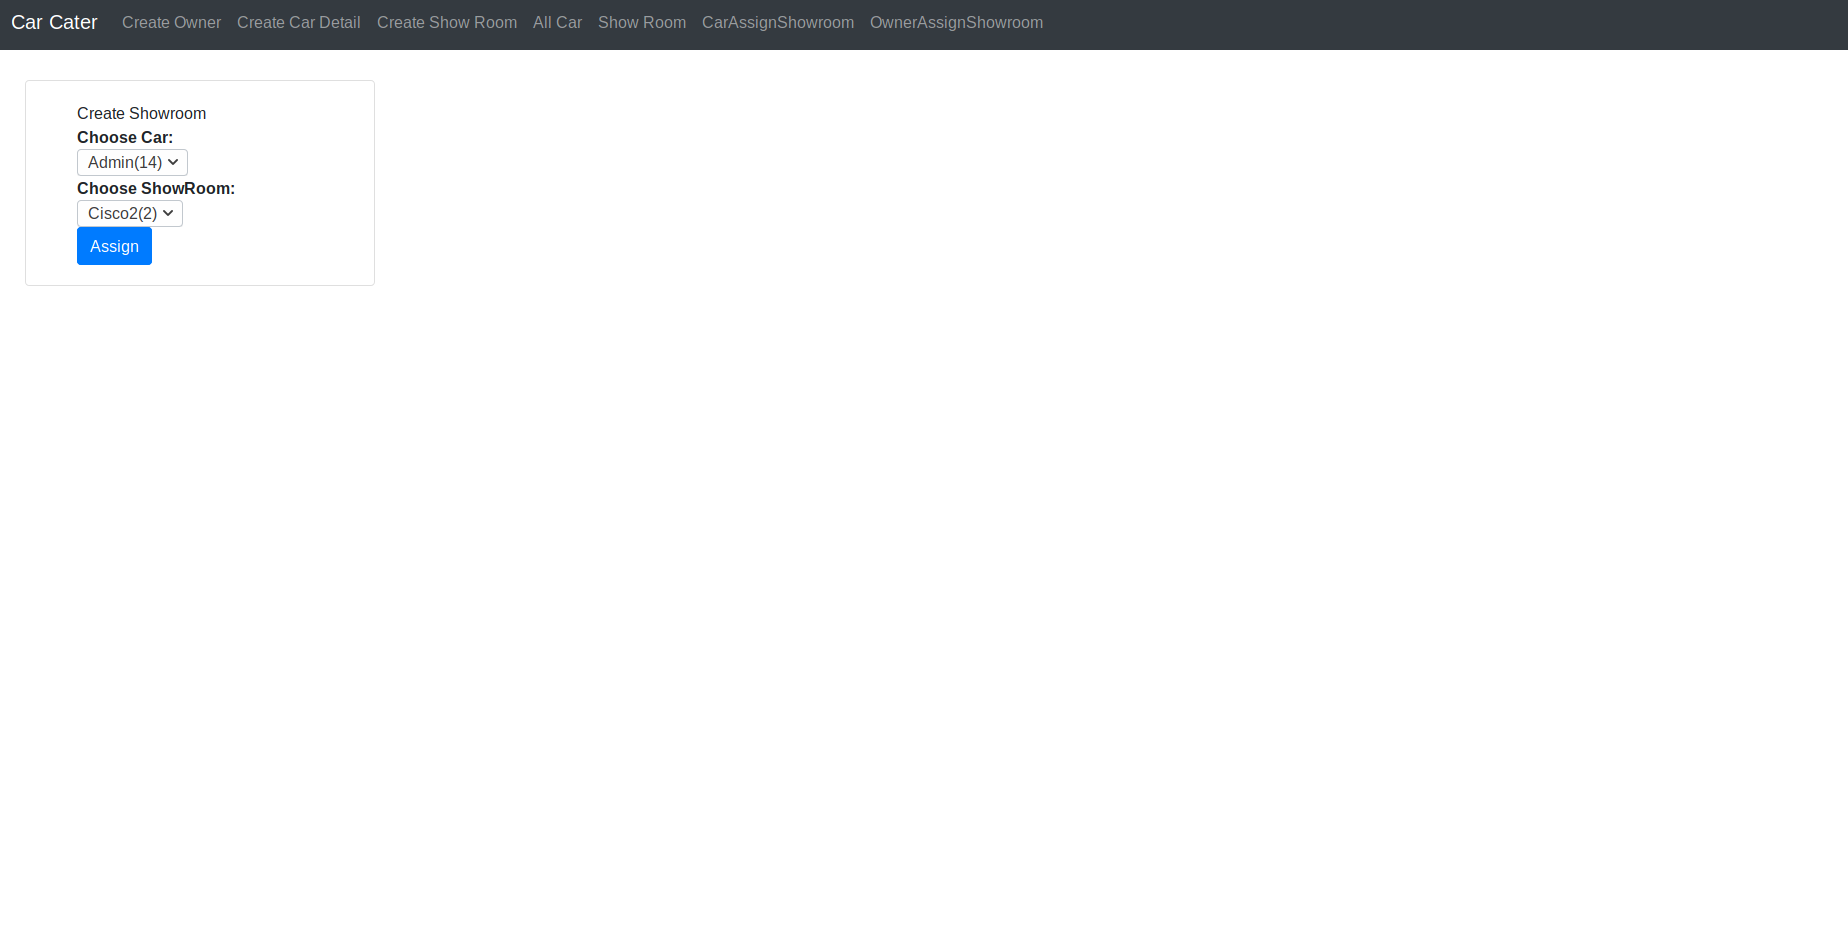
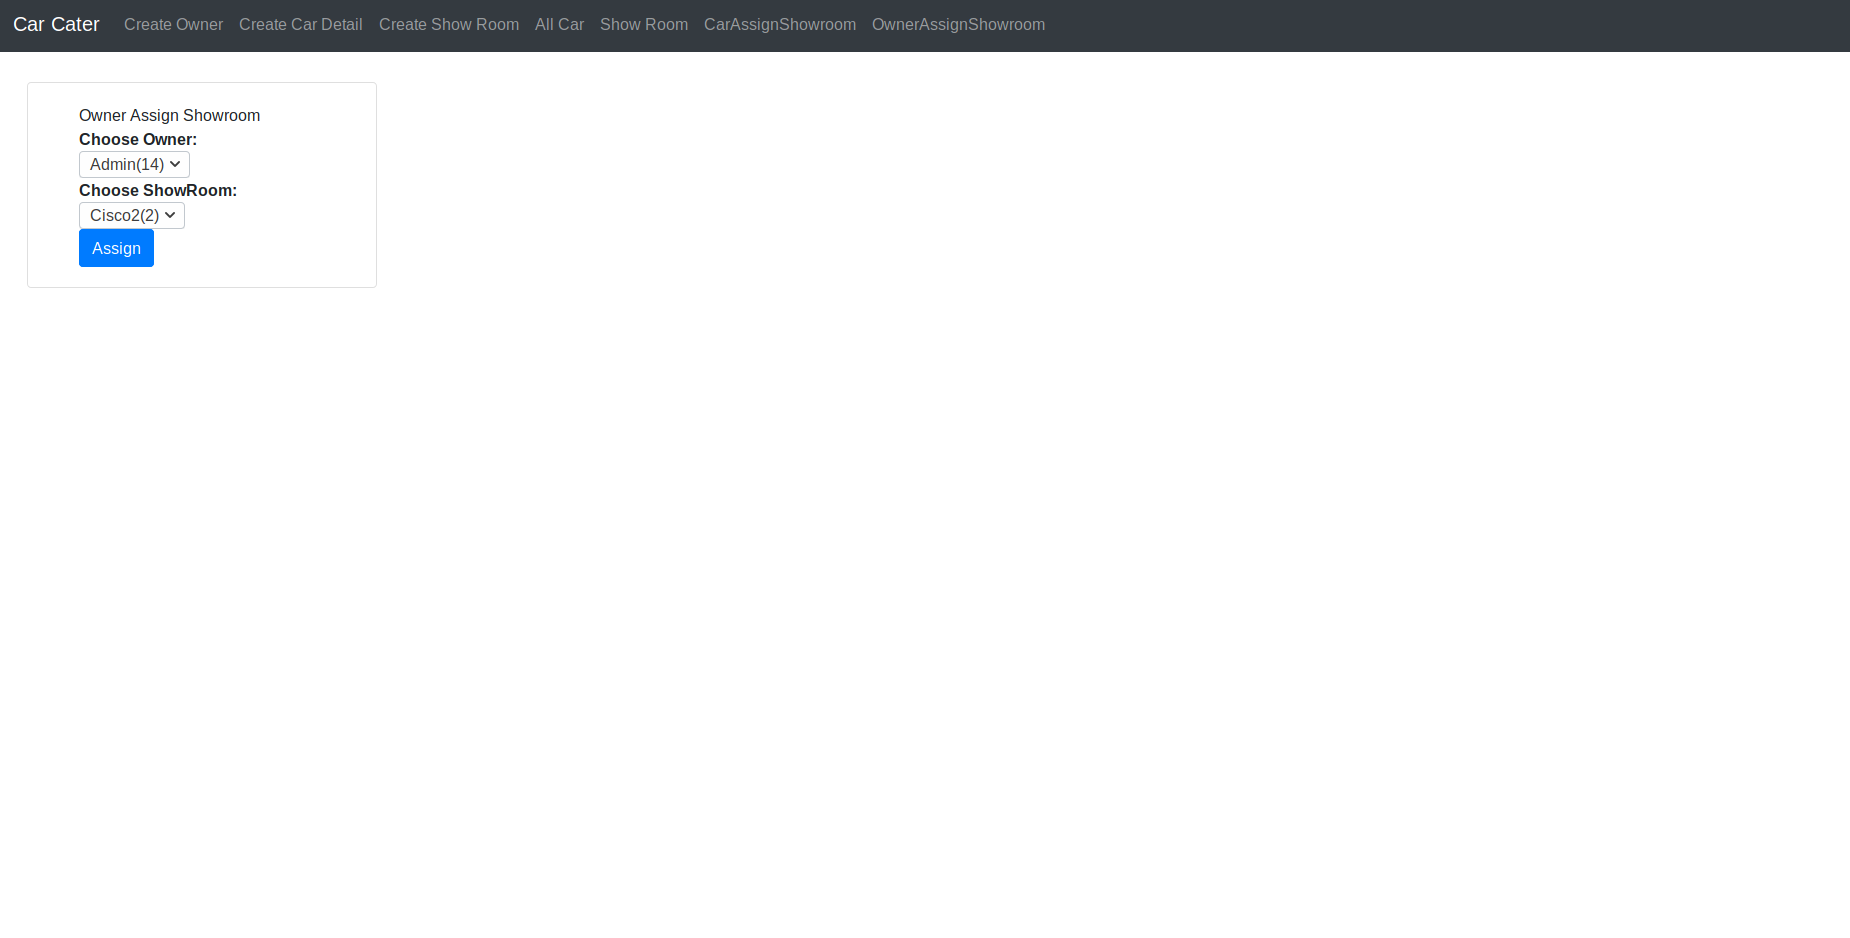
screenshot

Changed region(s): [[0.0, 0.0, 0.5552, 0.062], [0.0308, 0.0929, 0.1234, 0.2788]]

diff --git a/carmanagement_client/src/Components/OwnerAssignShowroom.js b/carmanagement_client/src/Components/OwnerAssignShowroom.js
@@ -60,10 +60,10 @@ class OwnerAssignShowroom extends Component {
         <div className="card">
             <div className="card-body">
                 <div className="panel panel-primary" style={panelStyle}>
-                    <div className="panel panel-heading">Create Showroom</div>
+                    <div className="panel panel-heading">Owner Assign Showroom</div>
                     <div className="panel panel-body">
                         <form onSubmit={this.handleSubmit} method="post">
-                          <strong>Choose Car:</strong>
+                          <strong>Choose Owner:</strong>
                           <br/>
                           <select name="showroomOwner">
                           {this.state.owner.map(item => (

diff --git a/carmanagement_client/src/Components/CarAssignShowroom.js b/carmanagement_client/src/Components/CarAssignShowroom.js
@@ -59,7 +59,7 @@ class CarAssignShowroom extends Component {
         <div className="card">
           <div className="card-body">
             <div className="panel panel-primary" style={panelStyle}>
-              <div className="panel panel-heading">Create Showroom</div>
+              <div className="panel panel-heading">Car Assign Showroom</div>
               <div className="panel panel-body">
                 <form onSubmit={this.handleSubmit} method="post">
                   <strong>Choose Car:</strong>
